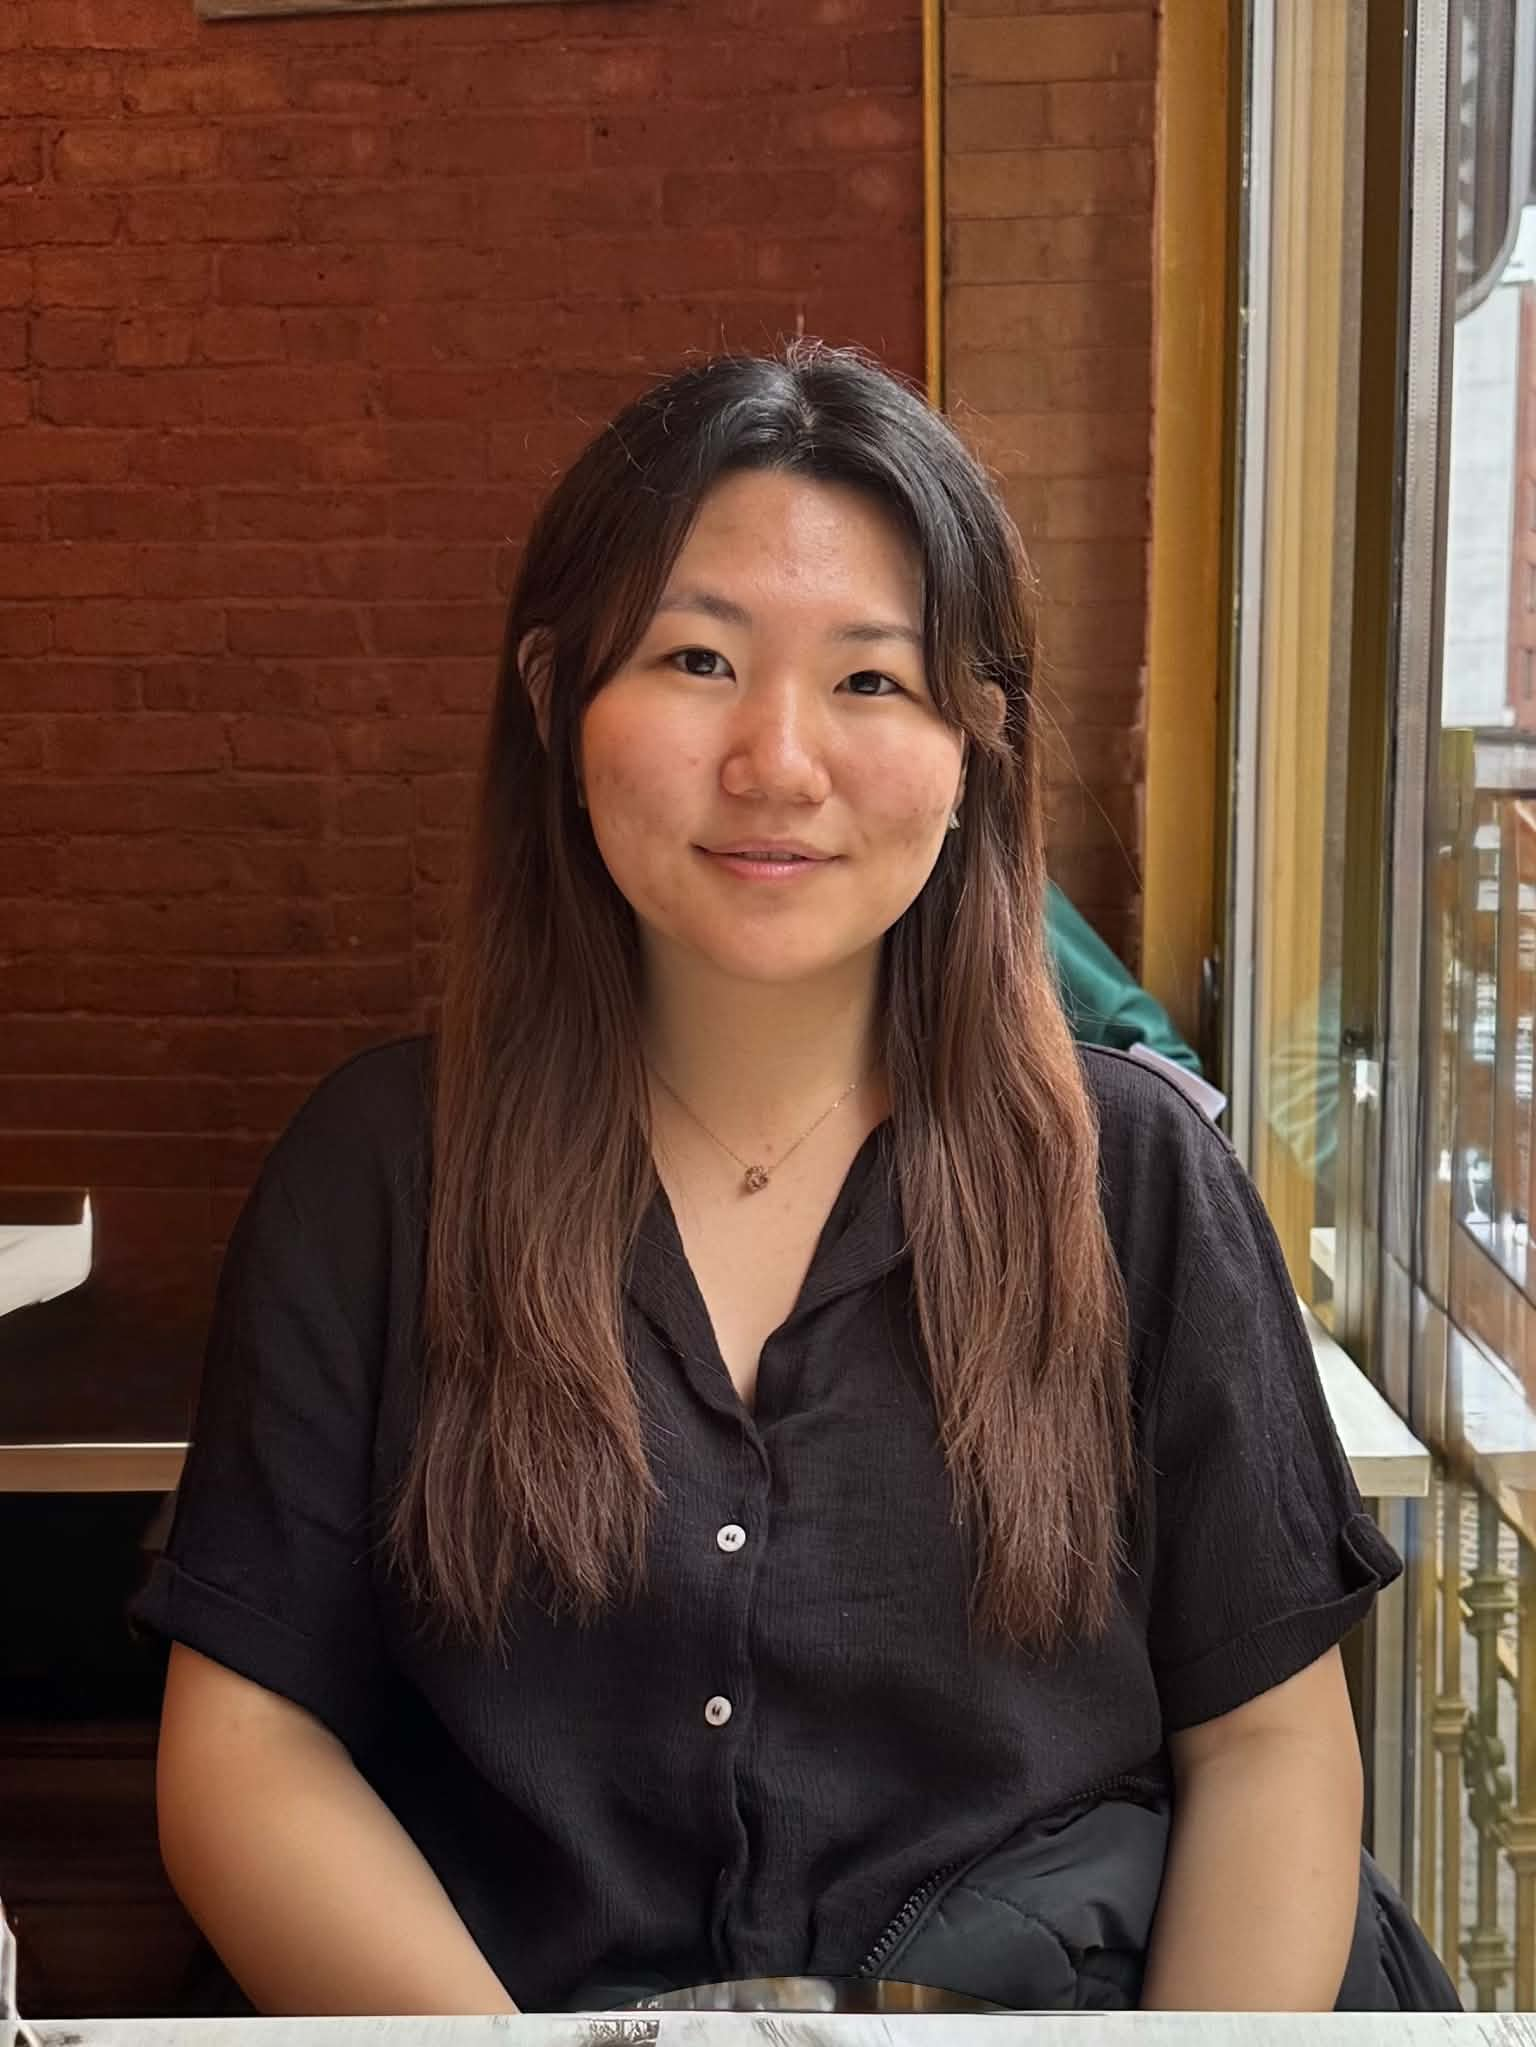
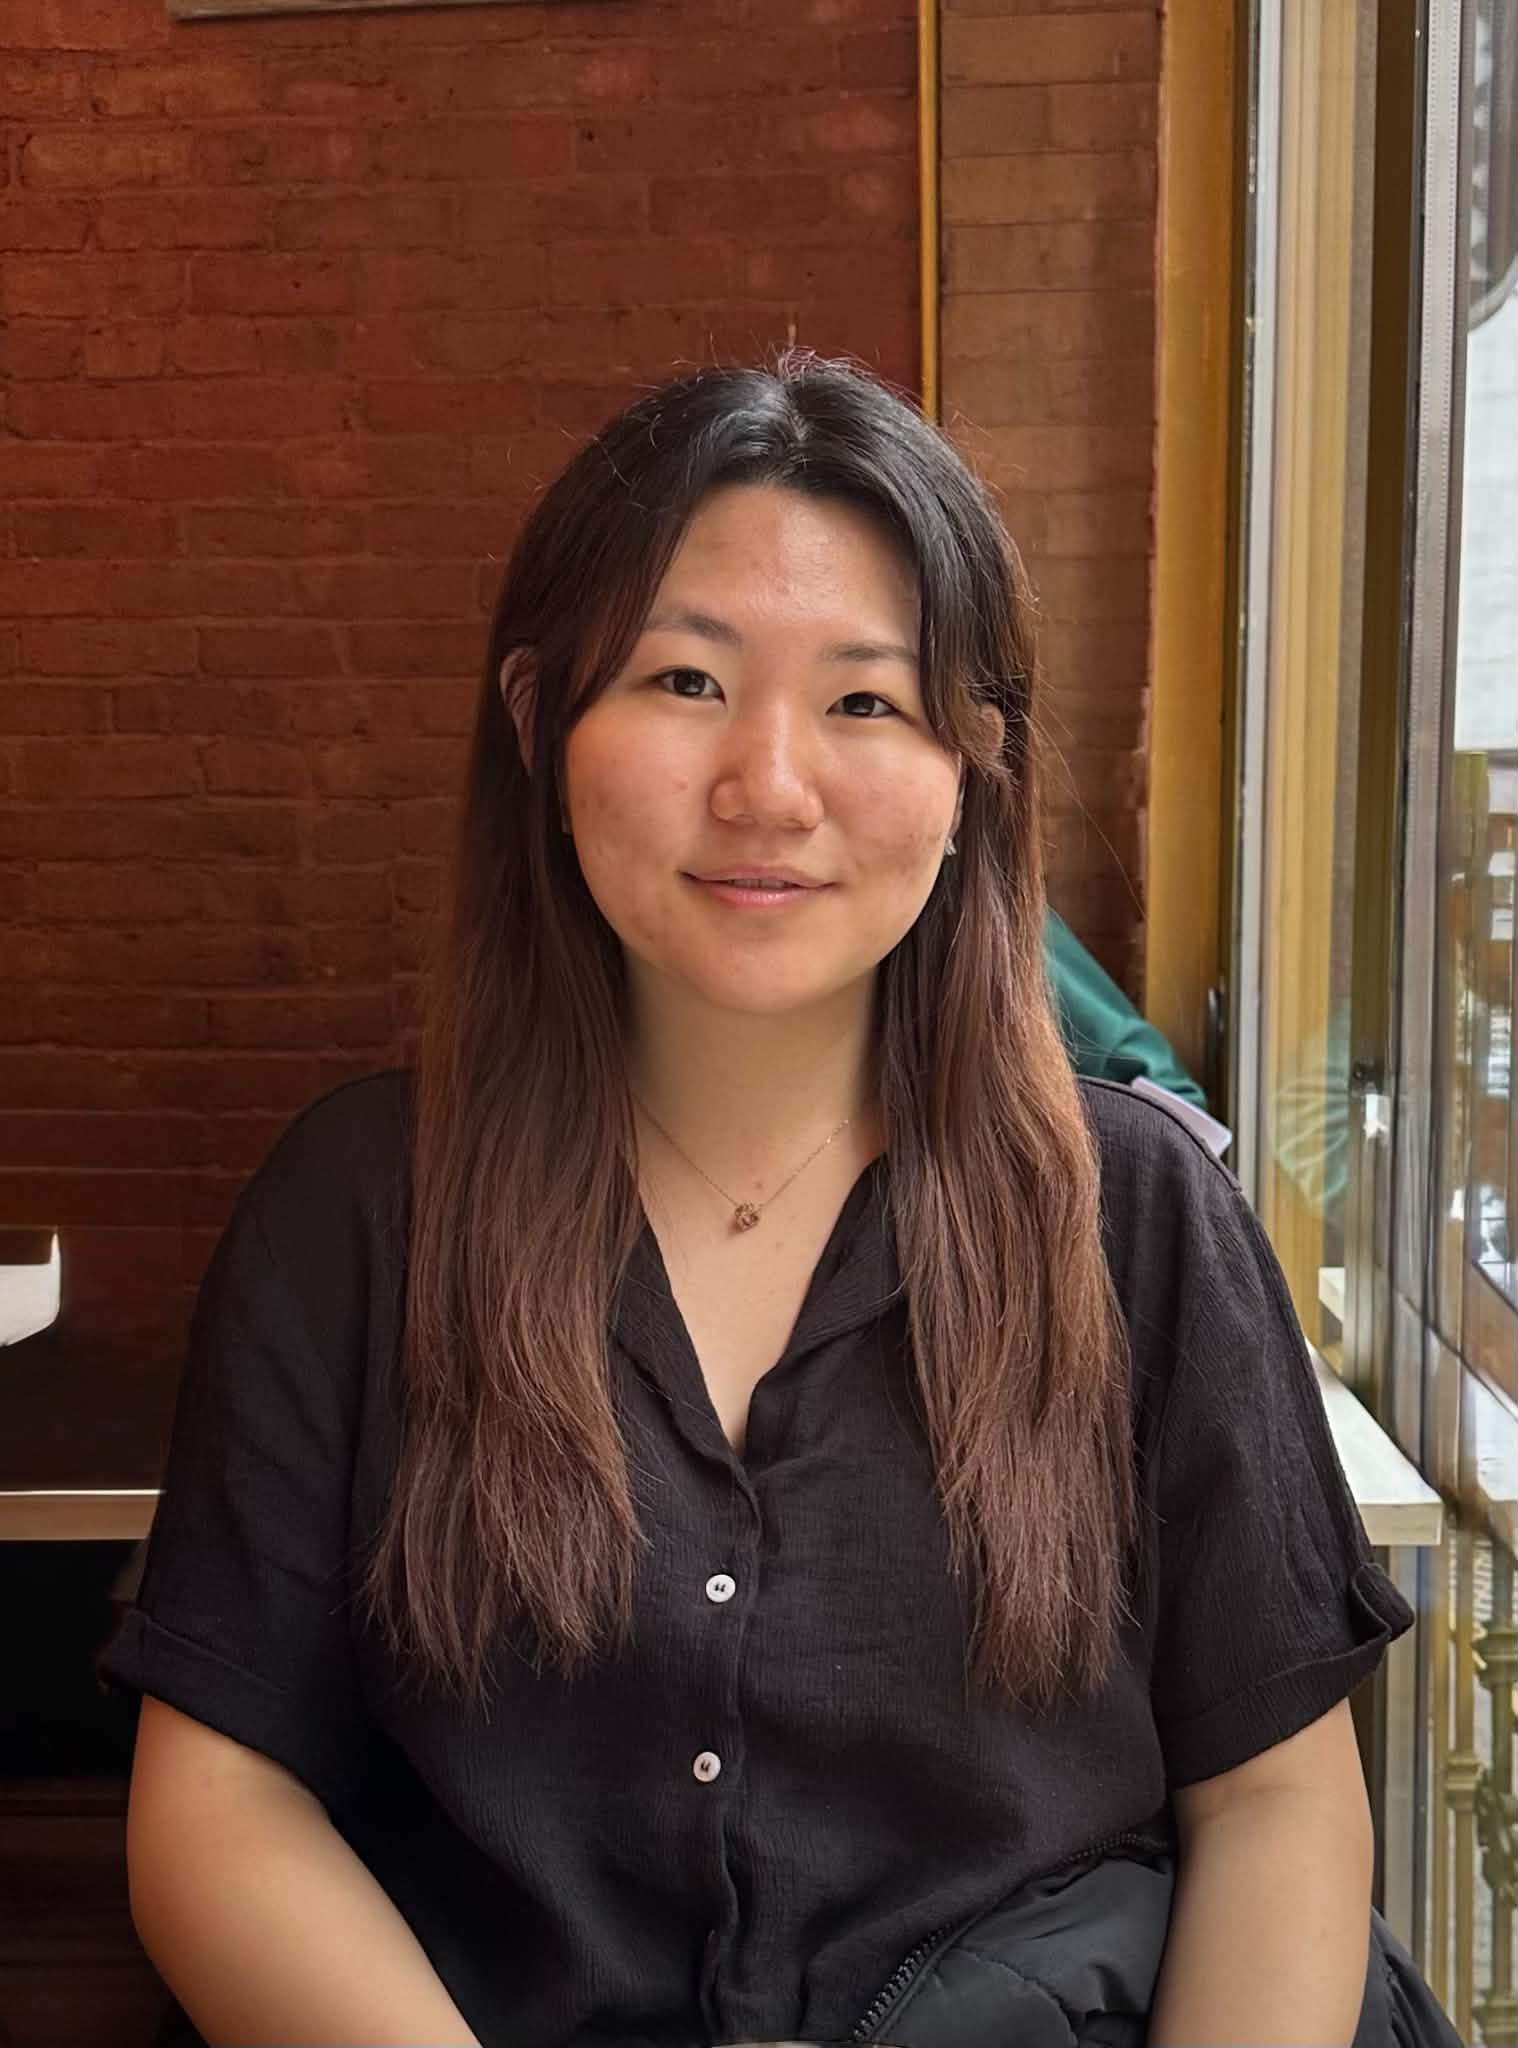
Reformatting and fixing small issues

diff --git a/index.html b/index.html
@@ -74,7 +74,7 @@
                 <a href="https://arxiv.org/abs/2608.30873">arXiv</a>
                 <p></p>
                 <p>
-                Asking a model to answer as a native speaker is a common shortcut for eliciting cross-cultural variation, but it is not interchangeable with generating advice in the target language and translating it back. Across 600 interpersonal advice questions, 13 languages, and eight LLMs, the two strategies differ in linguistic style, in how much actionable scaffolding the advice carries, and in which action the model recommends.
+                Cross-cultural studies of LLMs often ask a model to answer as a native speaker. We compare that against generating in the target language and translating back, and find the two are not interchangeable: the choice shifts how advice is framed and which action the model recommends.
                 </p>
               </td>
             </tr>
@@ -113,7 +113,7 @@
                 <a href="https://pmc.ncbi.nlm.nih.gov/articles/PMC12208548/">paper</a>
                 <p></p>
                 <p>
-                The nonmalignant neurodevelopmental sequelae of neurofibromatosis type 1 &mdash; including autism spectrum disorder and ADHD &mdash; arise in the setting of neurofibromin haploinsufficiency rather than complete loss. Augmenting endogenous levels of wild-type neurofibromin corrects neurobehavioral deficits in Nf1+/&minus; mice.
+                The neurodevelopmental symptoms of neurofibromatosis type 1 arise under partial rather than complete loss of the gene, suggesting they may be reversible. Raising endogenous levels of the remaining protein corrects neurobehavioral deficits in a mouse model.
                 </p>
               </td>
             </tr>
@@ -138,6 +138,8 @@
                 <strong>Teaching Assistant</strong>, 6.7920 Reinforcement Learning: Foundations and Methods
                 <br>
                 Massachusetts Institute of Technology
+                <br>
+                <a href="blog/rl-notes.html">notes</a>
               </td>
             </tr>
             <tr>
@@ -148,16 +150,6 @@
                 <strong>Teaching Assistant</strong>, 6.8300 Advances in Computer Vision
                 <br>
                 Massachusetts Institute of Technology
-              </td>
-            </tr>
-            <tr>
-              <td style="padding:8px 16px;width:25%;vertical-align:top;color:#888">
-                Notes
-              </td>
-              <td style="padding:8px;width:75%;vertical-align:top">
-                <a href="blog/rl-notes.html"><strong>Reinforcement Learning course notes</strong></a>
-                <br>
-                My own write-ups of the 6.7920 material
               </td>
             </tr>
 
@@ -177,7 +169,7 @@
           <table style="width:100%;border:0px;border-spacing:0px 10px;border-collapse:separate;margin-right:auto;margin-left:auto;"><tbody>
 
             <tr>
-              <td style="padding:8px 16px;color:#888">
+              <td style="padding:4px 16px;color:#888">
                 No posts yet. Check back soon!
               </td>
             </tr>
